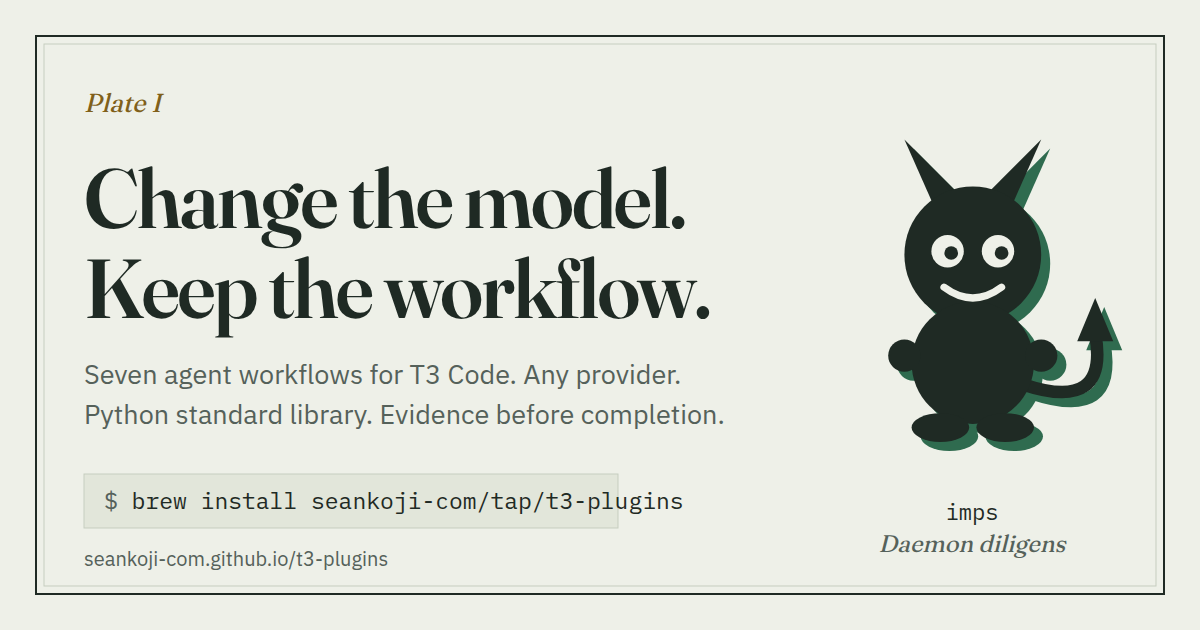
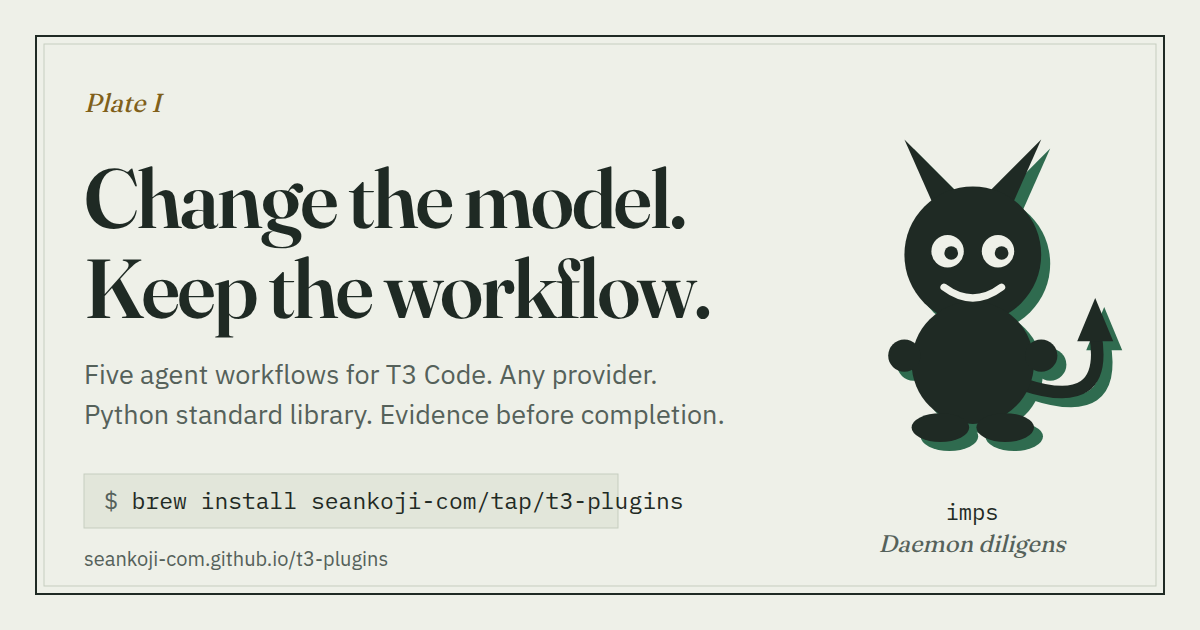
Re-render social card and docs preview for the five-plugin catalog (#15 stage 2)
Both PNGs come from the built site and docs/assets/social-card.svg via
headless Chrome. The routing JSON example wraps instead of scrolling.

Changed region(s): [[0.0617, 0.573, 0.555, 0.6333]]

diff --git a/docs/getting-started.md b/docs/getting-started.md
@@ -130,9 +130,15 @@ guesses: edit them. Providers default to `auto`, except OpenCode, which defaults
 {
   "schema_version": 1,
   "tiers": ["low", "medium", "high"],
-  "providers": {"codex": {"runtimeMode": "auto"}, "opencode": {"runtimeMode": "full-access"}},
+  "providers": {
+    "codex": {"runtimeMode": "auto"},
+    "opencode": {"runtimeMode": "full-access"}
+  },
   "roles": {
-    "reviewer": [{"providerInstanceId": "codex", "model": "MODEL_ID", "tier": "medium", "lineage": "openai"}]
+    "reviewer": [
+      {"providerInstanceId": "codex", "model": "MODEL_ID",
+       "tier": "medium", "lineage": "openai"}
+    ]
   }
 }
 ```
